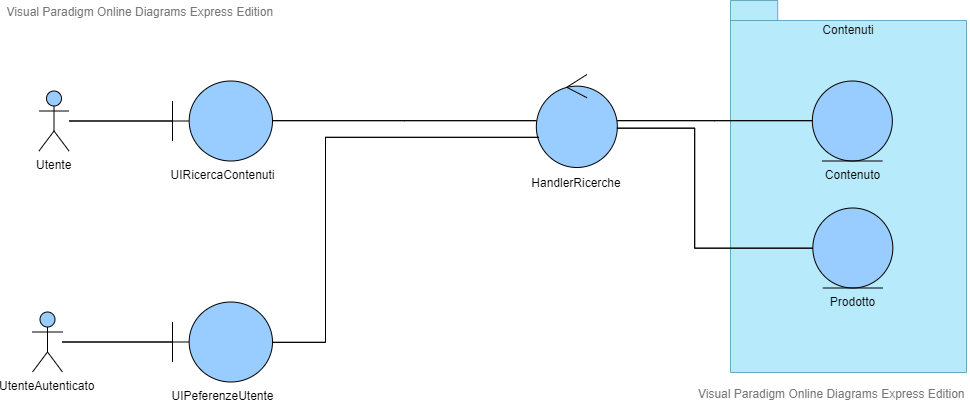
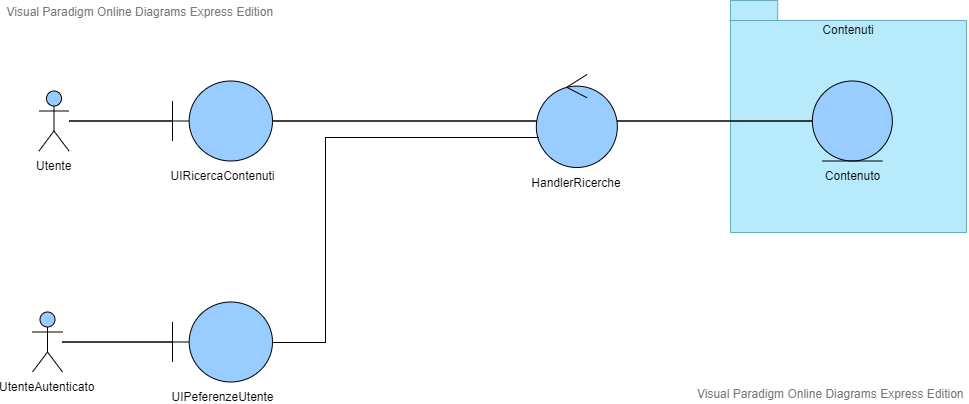
fix ebc ricerche

diff --git a/Contents/AnalisiSistema.tex b/Contents/AnalisiSistema.tex
@@ -878,21 +878,7 @@ Le basi per la scelta delle classi derivano principalente dall'anailisi dei requ
 
 % ================================================================================= %
 
-% ============================ PACKAGE GESTIONE ACCOUNT =========================== %
-\begin{center} % CLASS %
-    \begin{longtable}{ |p{3cm}|p{3cm}|p{3cm}|p{3cm}| }
-        \hline
-        Nome & \multicolumn{3}{|p{9cm}|}{Persona} \\\hline
-        Descrizione & \multicolumn{3}{|p{9cm}|}{Memorizza le informazioni anagrafiche e di pagamento/fatturazione di una persona registrata alla piattaforma} \\\hline
-        SuperClassi & \multicolumn{3}{|p{9cm}|}{-} \\\hline
-        SottoClassi & \multicolumn{3}{|p{9cm}|}{-} \\\hline
-        Attributi & \multicolumn{3}{|p{9cm}|}{nome, cognome, data di nascita, dati fatturazione (CoordinateBancarie), lista dati pagamento (lista CoordinateBancarie), riferimento pagamento predefinito} \\\hline
-        \multicolumn{4}{|p{12cm}|}{Responsabilit\'a} \\\hline %%% RESPONSABILITA %%%
-        \multicolumn{2}{|p{6cm}|}{Nome} & \multicolumn{2}{|p{6cm}|}{Collaboratore} \\\hline %%%%%%%
-        \multicolumn{2}{|p{6cm}|}{-} & \multicolumn{2}{|p{6cm}|}{-} \\\hline
-    \end{longtable}
-\end{center}
-
+% ============================ PACKAGE GESTIONE RICERCHE =========================== %
 \begin{center} % UI %
     \begin{longtable}{ |p{3cm}|p{3cm}|p{3cm}|p{3cm}| }
         \hline
